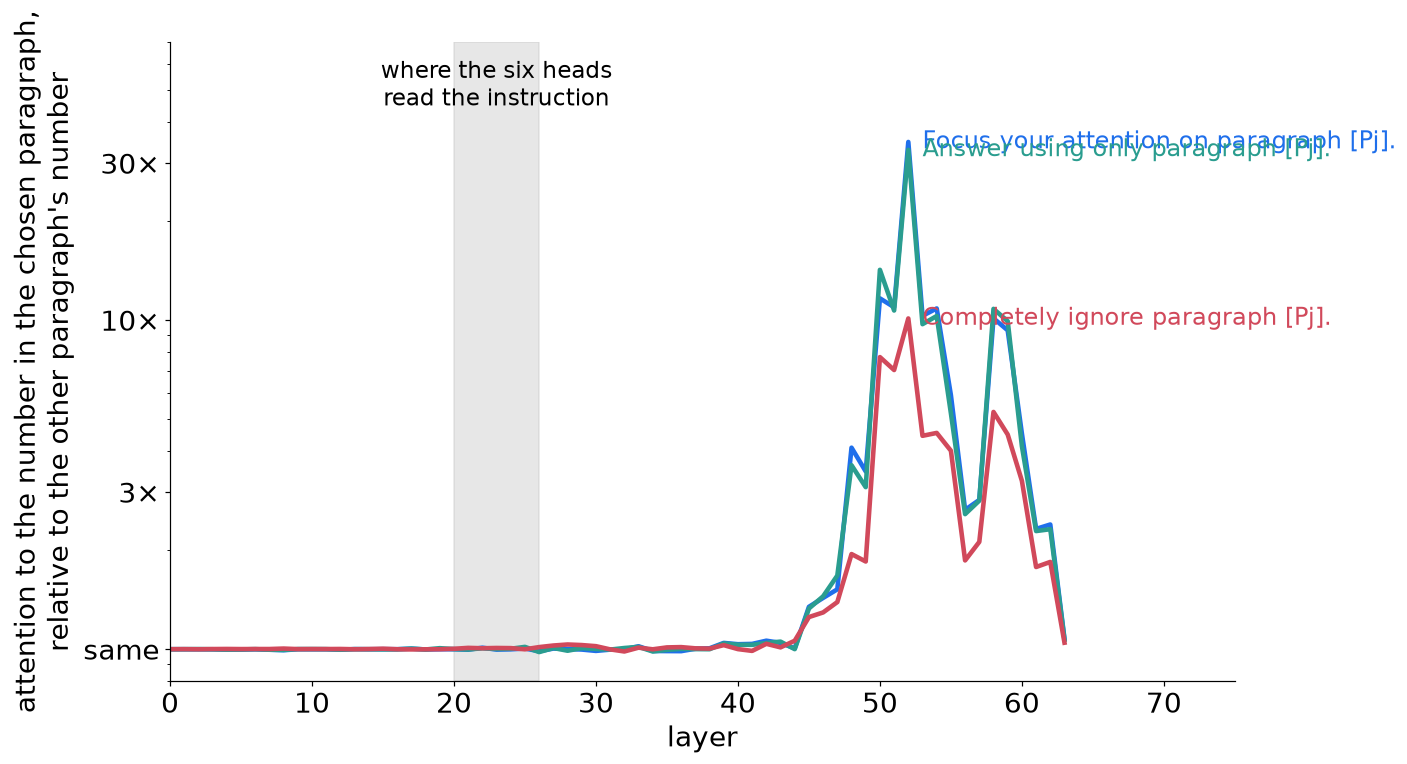
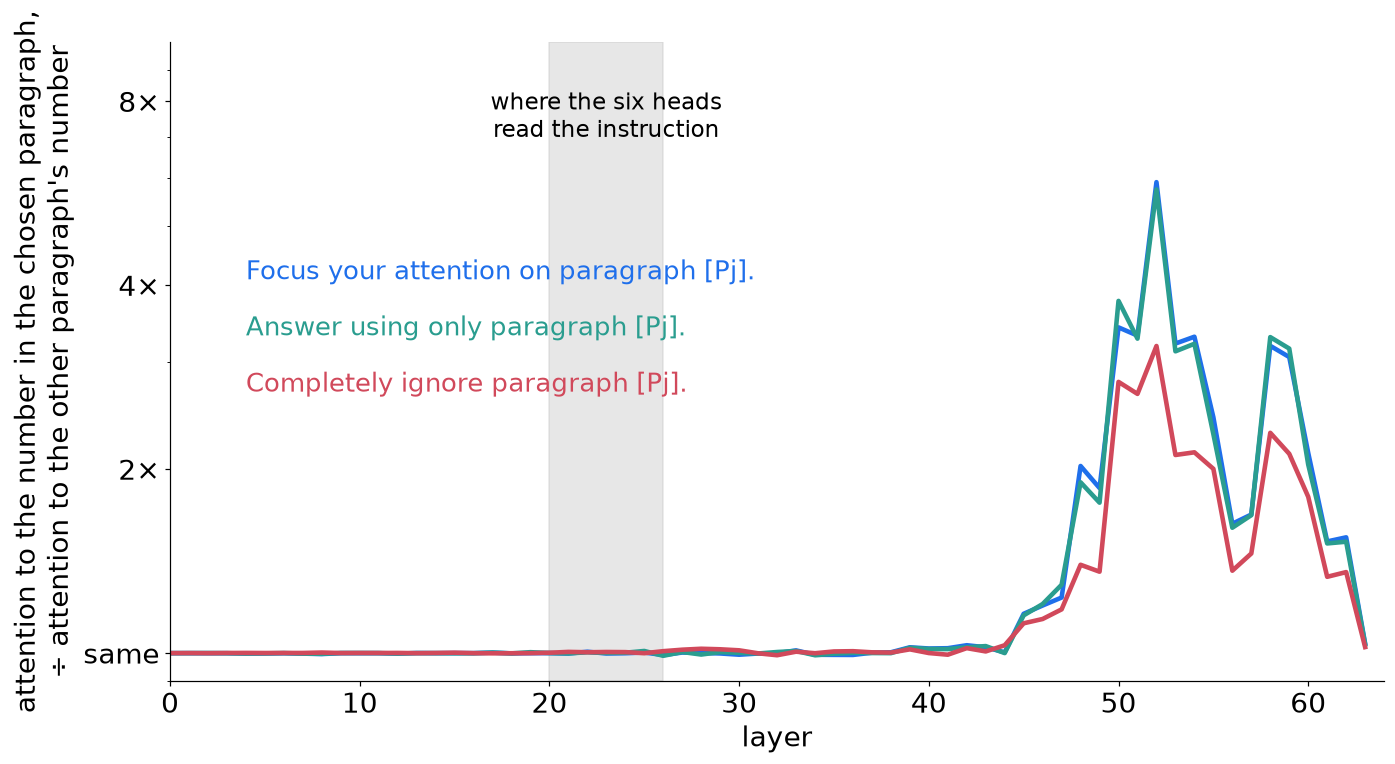
explore: E6 figure

diff --git a/explore/fig_e6.py b/explore/fig_e6.py
@@ -3,11 +3,11 @@ d = json.load(open(sys.argv[1]))
 plt.rcParams.update({"font.size": 18, "font.family": "DejaVu Sans"})
 fig, ax = plt.subplots(figsize=(13, 7))
 for k, col, lab in (("focus/alt-focus/orig", "#1f6feb", "Focus your attention on paragraph [Pj]."), ("use/alt-use/orig", "#2a9d8f", "Answer using only paragraph [Pj]."), ("ignore/orig-ignore/alt", "#d1495b", "Completely ignore paragraph [Pj].")):
-    y = np.exp(np.array(d[f"layer/{k}"])); ax.plot(range(64), y, color=col, lw=3)
-    i = int(np.argmax(y)); ax.text(i + 1, y[i], lab, color=col, fontsize=16, va="center")
-ax.set_yscale("log"); ax.set_yticks([1, 3, 10, 30]); ax.set_yticklabels(["same", "3×", "10×", "30×"])
-ax.set_xlabel("layer"); ax.set_ylabel("attention to the number in the chosen paragraph,\nrelative to the other paragraph's number")
-ax.axvspan(20, 26, color="#bbbbbb", alpha=0.35); ax.text(23, 45, "where the six heads\nread the instruction", ha="center", fontsize=15)
-ax.set_xlim(0, 75); ax.set_ylim(0.8, 70)
+    y = np.exp(np.array(d[f"layer/{k}"]) / 2); ax.plot(range(64), y, color=col, lw=3)
+    ax.text(4, {"#1f6feb": 4.2, "#2a9d8f": 3.4, "#d1495b": 2.75}[col], lab, color=col, fontsize=17, va="center")
+ax.set_yscale("log"); ax.set_yticks([1, 2, 4, 8]); ax.set_yticklabels(["same", "2×", "4×", "8×"])
+ax.set_xlabel("layer"); ax.set_ylabel("attention to the number in the chosen paragraph,\n÷ attention to the other paragraph's number")
+ax.axvspan(20, 26, color="#bbbbbb", alpha=0.35); ax.text(23, 7, "where the six heads\nread the instruction", ha="center", fontsize=15)
+ax.set_xlim(0, 64); ax.set_ylim(0.9, 10)
 for s in ("top", "right"): ax.spines[s].set_visible(False)
 plt.tight_layout(); plt.savefig(sys.argv[2], dpi=110, bbox_inches="tight")

diff --git a/explore/NOTEBOOK.md b/explore/NOTEBOOK.md
@@ -104,7 +104,7 @@ Attention (band mean, vs none): focus on the altered copy +19.5% on it, −14.1%
 **Control.** No instruction; for (a) every condition vs none, and named-altered vs named-original.
 **Result.**
 - Last-position attention to the number tokens (all heads, layers 21–53, vs none): focus on the altered copy: altered number +67% [57, 78], original −46% [−49, −43]. **Ignore the original: original number −37% [−40, −34], altered +43% [37, 51].** Use-only the altered copy: +49% / −55%. Mention alone: both −12 to −28%.
-- By layer, the selection (log of altered/original attention, named-altered minus named-original) is exactly zero up to layer 43 and then large in layers 45–62, peaking at layer 52: 3.6 nats (≈36×) for focus, 3.5 for use-only, 2.3 for ignore.
+- By layer, the selection (log of altered/original attention, named-altered minus named-original) is exactly zero up to layer 43 and then large in layers 45–62, peaking at layer 52: 3.6 nats for focus, 3.5 for use-only, 2.3 for ignore. Halved, that is the chosen number's attention ÷ the other number's, geometric mean over the two namings (cancels any baseline preference): ≈6× for focus and use-only, ≈3× for ignore at layer 52.
 - Blocking (margin in nats): no instruction +4.6; block the altered number → +20.5, block the original number → −10.3. Under "focus on the altered copy" (−11.9), blocking the altered number flips it to +15.0 [13.2, 16.6]; under "ignore the original" (−6.5), blocking the altered number gives +20.1, the same as with no instruction. Blocking the whole paragraph ≈ blocking just its number.
-**Surprises.** (1) The source choice is carried out by attention after all — but by late layers (45–62) at the answer position onto the specific answer tokens, an up to ~36-fold selection, invisible in the earlier whole-paragraph metric. (2) "Ignore" works the same way as "focus": it reroutes late attention away from the ignored paragraph's answer token, though it hardly changes attention to the paragraph as a whole. (3) Cut the late attention route and the instruction is nearly powerless: under "ignore the original", blocking the altered number gives the original answer as firmly as with no instruction at all. So the instruction does not pre-compute the answer elsewhere; it only steers which tokens late heads read. Picture: layers 20–26 read the instruction's address (six heads, E3); layers 45–62 execute it at the point of reading the answer.
+**Surprises.** (1) The source choice is carried out by attention after all — but by late layers (45–62) at the answer position onto the specific answer tokens, an up to ~6-fold selection, invisible in the earlier whole-paragraph metric. (2) "Ignore" works the same way as "focus": it reroutes late attention away from the ignored paragraph's answer token, though it hardly changes attention to the paragraph as a whole. (3) Cut the late attention route and the instruction is nearly powerless: under "ignore the original", blocking the altered number gives the original answer as firmly as with no instruction at all. So the instruction does not pre-compute the answer elsewhere; it only steers which tokens late heads read. Picture: layers 20–26 read the instruction's address (six heads, E3); layers 45–62 execute it at the point of reading the answer.
 **Next.** Which heads do the late selection, and do they take their cue from the six early heads? E7: zero the six early heads in the conflict task: does the late selection (and the answer choice) collapse?
